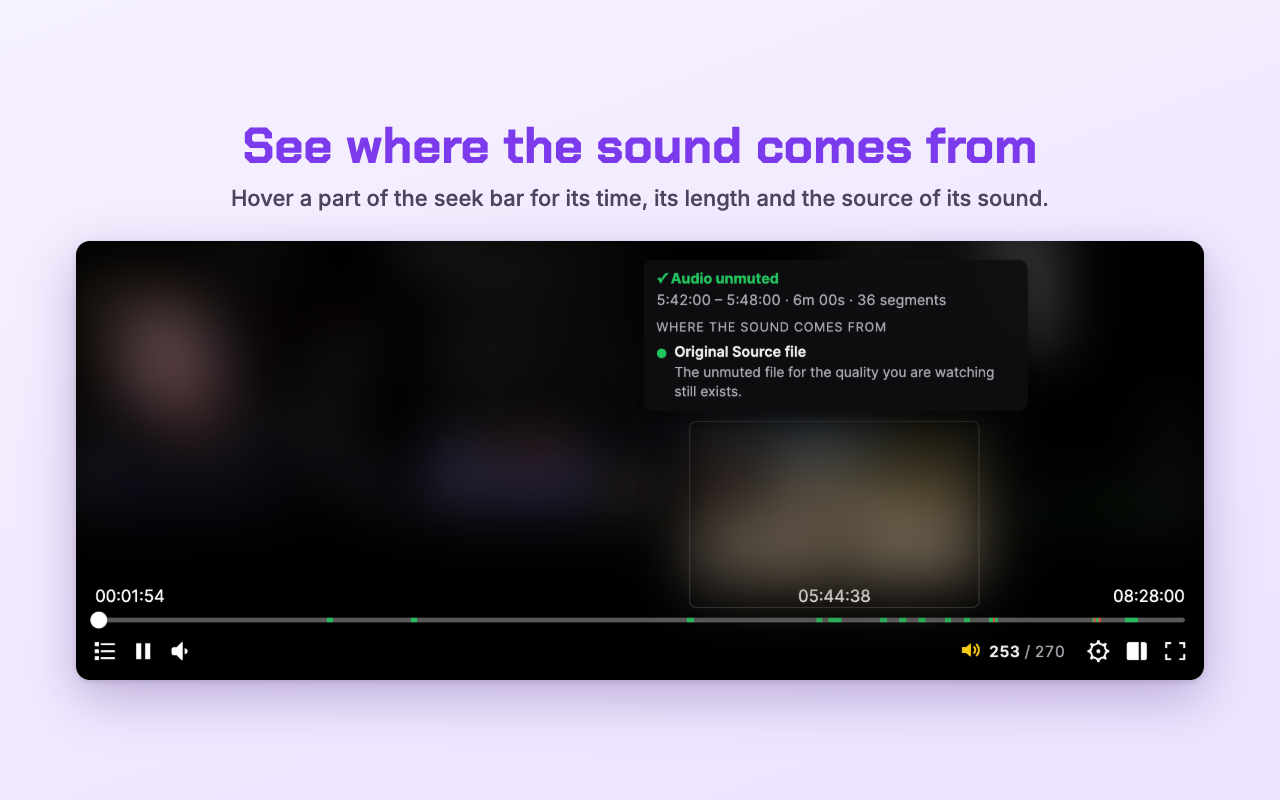
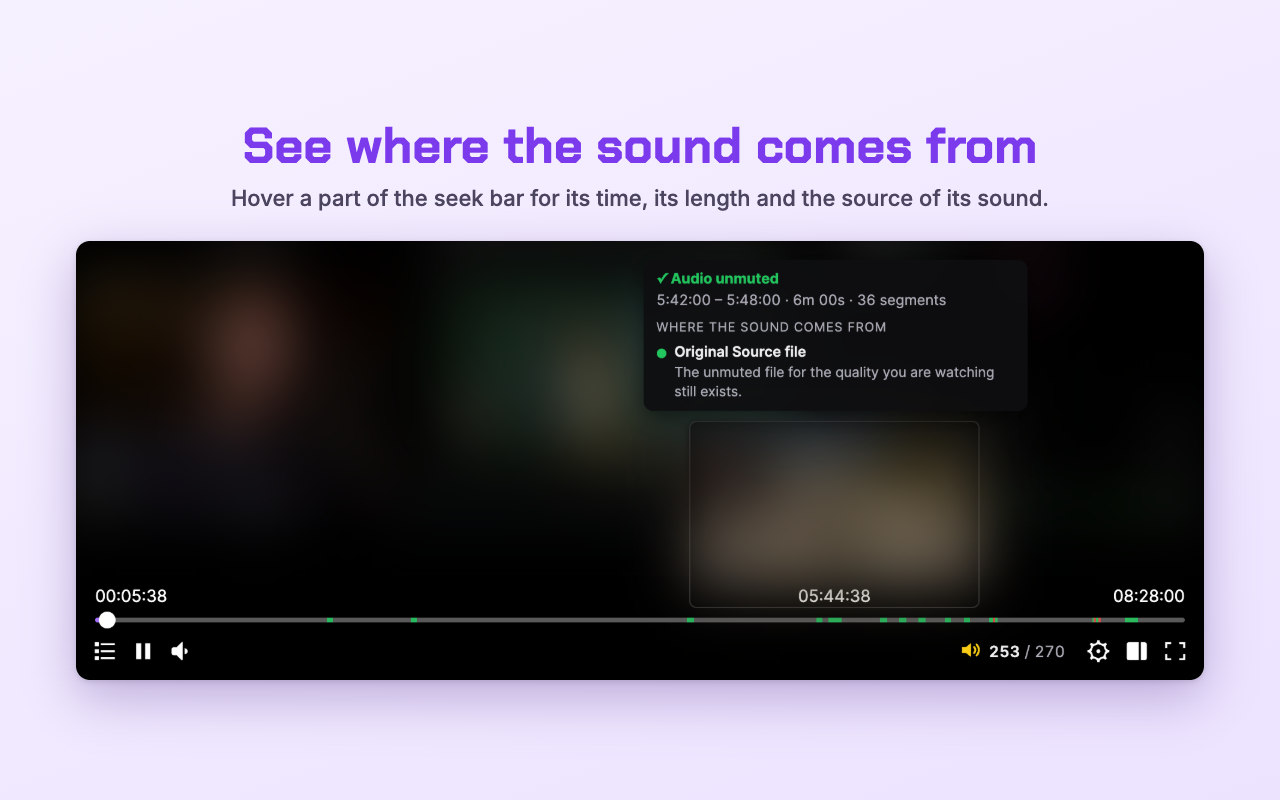
Improve Twitch worker hook reliability
Wrap Twitch player worker Blob code and Worker creation to ensure the unmute hook is installed regardless of extension load order. Refresh the included screenshots and metadata.

diff --git a/src/hook.js b/src/hook.js
@@ -1232,10 +1232,33 @@
   // 1) Hook the page itself (in case the player ever runs without a worker).
   installUnmuteHook(window);
 
-  // 2) Wrap Worker so the same hook runs first inside Twitch's player worker.
-  //    (The player binds `self.fetch` when it starts, so the hook must already
-  //    be in place: that's why it is prepended to the worker's code.)
+  // 2) Get the same hook to run first inside Twitch's player worker. (The
+  //    player binds `self.fetch` when it starts, so the hook must already be
+  //    in place: it is prepended to the worker's code.) Two ways, because
+  //    other extensions (ad blockers, etc.) also replace `Worker`, and
+  //    depending on which loads first, theirs can start the player without
+  //    going through ours:
+  //    a. when the player's code is put in a Blob (Twitch, and most
+  //       extensions, create the worker from a Blob): works whatever the
+  //       order of the extensions;
+  //    b. when a Worker is created from anything else.
   const hookSource = '(' + installUnmuteHook.toString() + ')(self);\n';
+  const MARK = '__vodUnmuterHooked';
+  const isPlayerWorkerCode = (text) => /amazon-ivs-wasmworker|wasmworker\.min/.test(text);
+
+  const OriginalBlob = window.Blob;
+  window.Blob = class extends OriginalBlob {
+    constructor(parts, options) {
+      try {
+        if (Array.isArray(parts) && parts.length && parts.every((p) => typeof p === 'string')) {
+          const text = parts.join('');
+          if (isPlayerWorkerCode(text) && !text.includes(MARK)) parts = [hookSource].concat(parts);
+        }
+      } catch (e) { /* leave it as it was */ }
+      super(parts, options);
+    }
+  };
+
   const OriginalWorker = window.Worker;
   window.Worker = class extends OriginalWorker {
     constructor(scriptURL, options) {
@@ -1248,12 +1271,14 @@
           if (src.startsWith('blob:')) {
             const xhr = new XMLHttpRequest();
             xhr.open('GET', src, false); // read the original blob's code
+            xhr.overrideMimeType('text/javascript'); // (else Firefox tries to parse it as XML)
             xhr.send();
-            code = hookSource + xhr.responseText;
+            // Already hooked by (a)? Then leave it alone.
+            code = xhr.responseText.includes(MARK) ? null : hookSource + xhr.responseText;
           } else {
             code = hookSource + 'importScripts(' + JSON.stringify(new URL(src, location.href).href) + ');';
           }
-          finalURL = URL.createObjectURL(new Blob([code], { type: 'text/javascript' }));
+          if (code) finalURL = URL.createObjectURL(new OriginalBlob([code], { type: 'text/javascript' }));
         }
       } catch (e) {
         console.warn('[VOD Unmuter] could not wrap worker, using the original', e);
